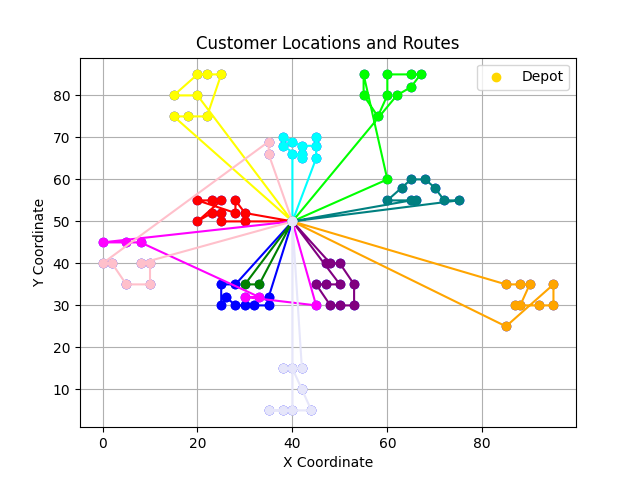
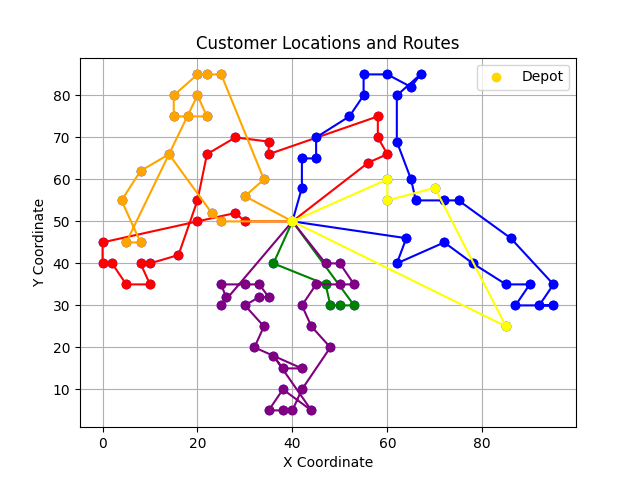
moved around files

diff --git a/graph.py b/graph.py
@@ -46,14 +46,24 @@ class Graph:
                 count += 1
         customer_numbers = len(customer_list)
         customers = []
-        for customer in customer_list:
-            customers.append(Customer(int(customer[0]), float(customer[1]), float(customer[2]), float(customer[3]),
-                                      float(customer[4]), float(customer[5]), float(customer[6])))
+
+        self.add_customer_to_list(customers, customer_list)
 
         customer_distance_matrix = np.zeros((customer_numbers, customer_numbers))
         customer_distance_matrix = Graph.calculate_distance_matrix(customer_numbers, customer_distance_matrix, customers)
 
         return customer_numbers, customers, customer_distance_matrix, vehicle_number, vehicle_capacity
+
+    def add_customer_to_list(self, customers, customer_list):
+        """
+        Adds customer details  to customer list as Customer class
+        :param customers: list of customers as Customer node
+        :param customer_list: list of extracted customer details from dataset
+        :return:
+        """
+        for customer in customer_list:
+            customers.append(Customer(int(customer[0]), float(customer[1]), float(customer[2]), float(customer[3]),
+                                      float(customer[4]), float(customer[5]), float(customer[6])))
 
     @staticmethod
     def calculate_distance_matrix(customer_numbers, customer_distance_matrix, customers):

diff --git a/main.py b/main.py
@@ -11,7 +11,7 @@ from Solve import ACO
 
 
 if __name__ == '__main__':
-    file_path = './solomon-100/In/c101.txt'
+    file_path = './solomon-100/In/c201.txt'
     ants = 20
     maximum_iteration = 10000
     beta = 2

diff --git a/Solve.py b/Solve.py
@@ -191,6 +191,3 @@ class ACO:
 
 
 
-
-
-
